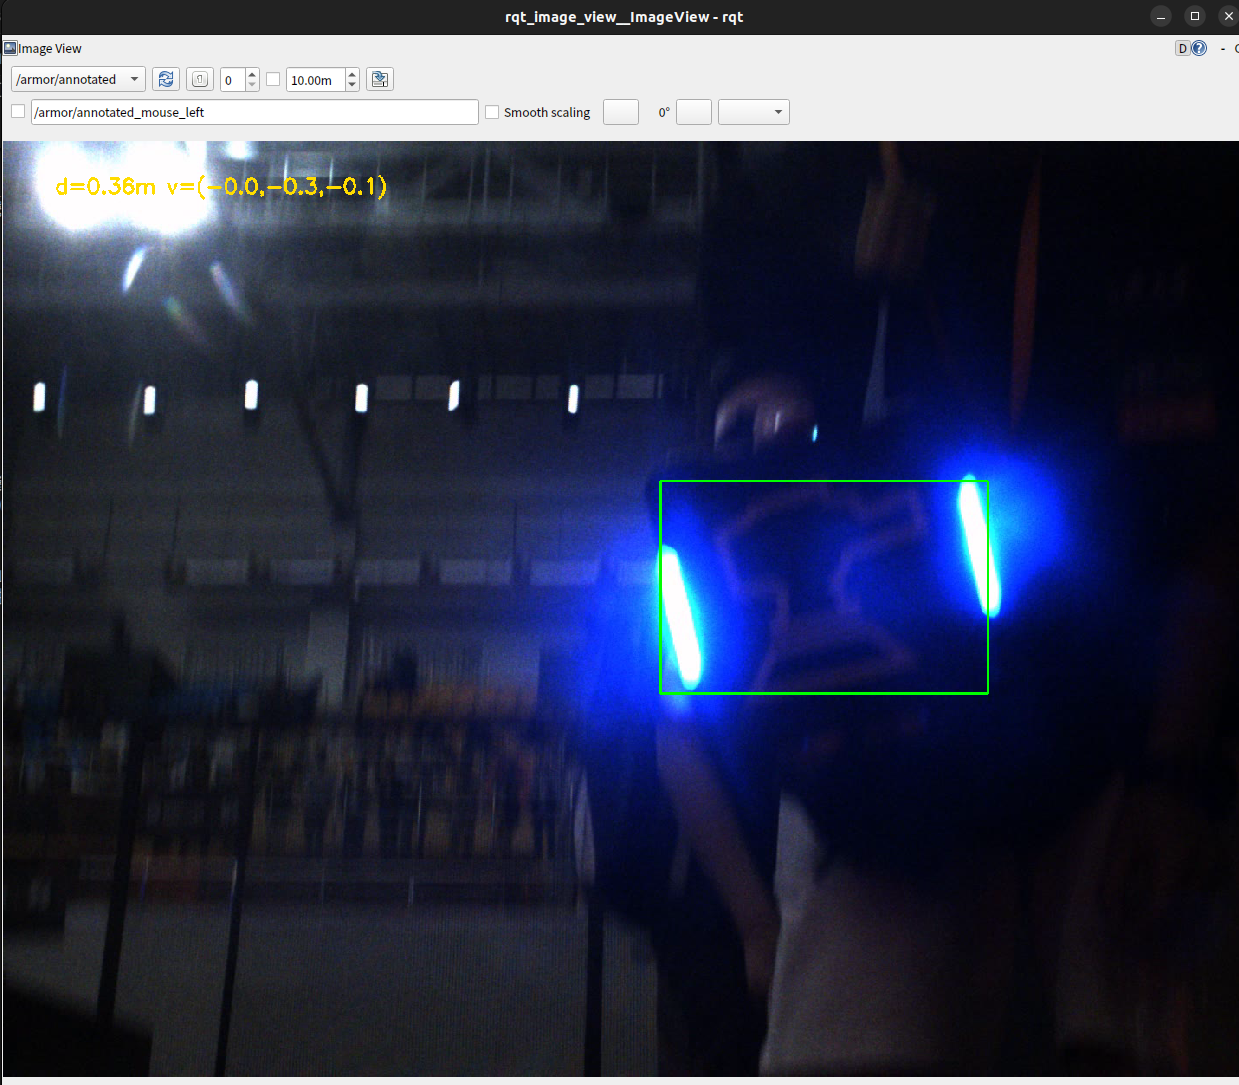
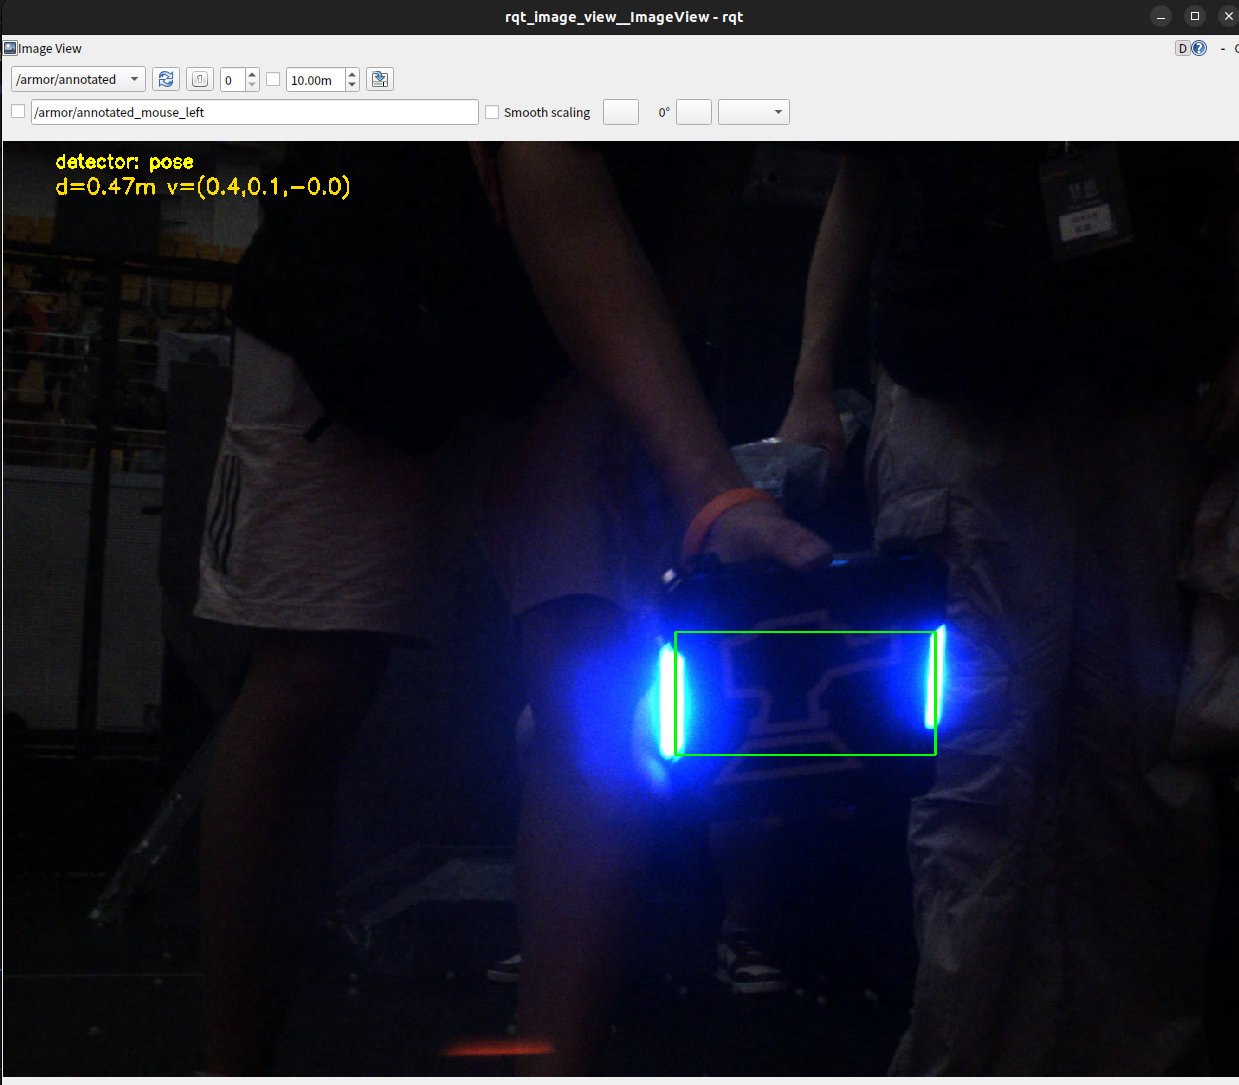
refactor(scripts)+docs: demo.sh 改为 setup.sh(只配置环境+构建, 不启动程序; 自动探测 ORT/MVS 并编好 bbox+pose 两条通路); README v3.4 同步职责分工与两条素材启动命令; 换带 detector:pose 标签的 rqt 截图; notes 标注 ④与标定暂缓; 清理构建产物与测试残留

diff --git a/README.md b/README.md
@@ -23,21 +23,24 @@ cmake -S 02_tracker  -B build/02_tracker  -DCMAKE_BUILD_TYPE=Release && cmake --
 ./build/01_detector/armor_demo data/demo.avi models/armor_yolov8n.onnx 240
 ```
 
-想看完整链路（ROS2 + rqt 可视化 + 终端里的状态数字）：
+想直接看完整链路（ROS2 + rqt 可视化 + 终端里的状态数字）：
 
 ```bash
-source /opt/ros/humble/setup.bash
-colcon build --packages-up-to rm_armor_visualization
-source install/setup.bash
+bash scripts/setup.sh                    # 只做两件事：配置环境 + 构建（不启动任何程序）
 
-bash scripts/demo.sh                                   # 一条命令：环境准备 + 视频源 + bbox + rqt
-# 等价手工版：
-ros2 launch rm_armor_visualization armor_tracker.launch.py use_rqt:=true print_state:=true
+# 启动入口只有 launch；两种检测器跑的都是同一段素材 data/demo.avi
+source install/setup.bash
+ros2 launch rm_armor_visualization armor_tracker.launch.py use_rqt:=true print_state:=true    # ① bbox（默认）
+ros2 launch rm_armor_visualization armor_tracker.launch.py detector:=pose \
+    pose_model_path:=models/third_party/Infantry-v8n/Infantry-v8n-fp16-20260726-D1.8w-B16.onnx \
+    use_rqt:=true print_state:=true                                                           # ② 四关键点
 ```
 
 - **前置**：Ubuntu 22.04 · ROS2 Humble · OpenCV 4.x · C++17（详见「环境与依赖」）。
 - **仓库自带**测试素材 + 两个检测器模型，**不需要额外下载任何东西**；只有两个可选项要自己装：
-  ONNX Runtime（四关键点检测器 `detector:=pose`）与海康 MVS SDK（真机相机 `source:=hik`）。
+  ONNX Runtime（四关键点检测器，`setup.sh` 会自动探测并启用）与海康 MVS SDK（真机相机 `source:=hik`）。
+- **脚本与启动的分工**：`scripts/setup.sh` 只负责"环境 + 构建"，**不启动任何程序**；
+  启动统一走 `ros2 launch`（唯一入口）。
 - 每一步该看到什么，见下面的「30 秒快速验证」——**每条命令都写了「预期效果」**。
 
 ## 考核要求对照
@@ -76,9 +79,7 @@ ros2 launch rm_armor_visualization armor_tracker.launch.py use_rqt:=true print_s
 ```
 
 ```bash
-# 题3：ROS2 全链路 + rqt 可视化窗口（需先按「构建 B」colcon build）
-bash scripts/demo.sh print_state:=true                # 脚本版：环境准备 + rqt + 终端状态数字
-# 等价的手工版（三行）：
+# 题3：ROS2 全链路 + rqt 可视化窗口（前置：已跑过 scripts/setup.sh，它会配好环境并构建）
 source /opt/ros/humble/setup.bash && source install/setup.bash
 ros2 launch rm_armor_visualization armor_tracker.launch.py use_rqt:=true print_state:=true
 # 预期效果：终端出现两种 INFO ——
@@ -90,11 +91,9 @@ ros2 launch rm_armor_visualization armor_tracker.launch.py use_rqt:=true print_s
 ```
 
 ```bash
-# 可选：切到四关键点检测器（需已按「构建 C」启用 ONNX Runtime）
-bash scripts/demo.sh pose                             # 脚本版（模型路径自动填好）
-# 等价的手工版：
+# 可选：同样素材换成四关键点检测器（需构建时启用了 ONNX Runtime，setup.sh 会自动探测）
 POSE_MODEL=models/third_party/Infantry-v8n/Infantry-v8n-fp16-20260726-D1.8w-B16.onnx
-ros2 launch rm_armor_visualization armor_tracker.launch.py detector:=pose pose_model_path:="$POSE_MODEL"
+ros2 launch rm_armor_visualization armor_tracker.launch.py detector:=pose pose_model_path:="$POSE_MODEL" use_rqt:=true
 # 预期效果：终端打印 "检测器: pose（四关键点）…"；
 #   画面左上角第一行变成 detector: pose；且绿框通常会同时套住同一块板的**两根**灯条
 #   （bbox 模式常常只套住其中一根 —— 这正是 2D 点质量差异的直观体现）
@@ -129,7 +128,7 @@ rm27_vision/
 │   ├── src/armor_state_printer.cpp    #   可选：[工具] 把 /armor/state 打到终端（launch 的 print_state:=true）
 │   └── launch/armor_tracker.launch.py #   一键启动
 ├── 04_hik/                    # 海康 MVS SDK 学习 demo（probe/open/grab，独立构建，不参与主构建）
-├── scripts/demo.sh            # 一键启动脚本：环境准备 + 选检测器/图像源 + launch + rqt（见题3）
+├── scripts/setup.sh           # 一键配置环境 + 构建（不启动任何程序；启动统一交给 launch，见题3）
 ├── rm_interfaces/             # 自定义消息接口包（ArmorState.msg）
 ├── docs/
 │   ├── notes.md               # 学习笔记（21 章：原理问答 + 踩坑 + 负结果 + 工作记录）
@@ -146,7 +145,7 @@ rm27_vision/
 |---|---|---|
 | **核心**（运行时必需） | `01_detector/src/armor_detector.cpp`、`armor_pose_detector.cpp`；`02_tracker/src/armor_pnp.cpp`、`armor_ekf.cpp`；`03_visualization/src/armor_tracker_node.cpp`、`image_source.hpp` / `.cpp`；`rm_interfaces/msg/ArmorState.msg`；`models/armor_yolov8n.onnx` | 主节点起不来，或少一条检测器/解算通路 |
 | **工具**（非运行时，但决定"指标能不能复现"） | `02_tracker/src/eval_demo.cpp`、`02_tracker/scripts/compare_eval.py`、`01_detector/scripts/convert_fp16_to_fp32.py` | 主节点照常，但 687 帧 A/B 表无法复现 |
-| **使用体验（可选，删掉不影响任何功能）** | `scripts/demo.sh`、`03_visualization/src/armor_state_printer.cpp` | 少掉"一条命令启动"和"终端里的状态数字" |
+| **使用体验（可选，删掉不影响任何功能）** | `scripts/setup.sh`、`03_visualization/src/armor_state_printer.cpp` | 少掉"一键配置环境+构建"和"终端里的状态数字" |
 | **教学 / 演示**（学习过程留档） | `01_detector/src/demo_main.cpp`；`02_tracker/src/{projection,corner,pnp,tracker,lightbar}_demo.cpp`；`03_visualization/src/armor_video_node.cpp`；`04_hik/src/*.cpp` | 无影响 |
 | **负结果存档** | `02_tracker/src/armor_corner.cpp`、`light_bar_detector.cpp` | 无影响（只被 `eval_demo` 的两个可选模式引用；证据见 notes §15、§21.1） |
 
@@ -526,29 +525,24 @@ ros2 launch rm_armor_visualization armor_tracker.launch.py [参数:=值 ...]
 
 节点自身的参数（`ros2 run` 时用）：`camera_config`、`video_path`、`model_path`、`detector`、`pose_model_path`。
 
-### 一键启动脚本（`scripts/demo.sh`）
+### 配置环境与构建（`scripts/setup.sh`）
 
-`scripts/demo.sh` 把「环境准备 + 选检测器 + 选图像源 + 起 rqt」压成**一条命令**，
-clone 者不用去记环境变量和长参数：
-
-| 命令 | 等价于 |
-|---|---|
-| `bash scripts/demo.sh` | 视频源 + bbox 检测器 + rqt（默认） |
-| `bash scripts/demo.sh pose` | 视频源 + 四关键点检测器 + rqt（模型路径自动填好） |
-| `bash scripts/demo.sh ip 192.168.1.10:8080` | 手机 IP Webcam（自动补 `http://` 与 `/video`） |
-| `bash scripts/demo.sh hik` | 海康相机（读 `data/camera.yaml` 里的序列号） |
-| `bash scripts/demo.sh pose no_rqt` | 只起节点不弹 rqt（`no_rqt` 放哪个位置都行） |
-
-它做的事就是下面手工版的开头几行：`source` ROS2 与 `install/` 环境、设 `RMW_IMPLEMENTATION` 与
-`ROS_LOG_DIR`、检查 `install/` 是否已经构建过（没构建会直接告诉你构建命令）、最后 `exec ros2 launch`。
-**手工版继续保留**（见下一小节）——不想用脚本、或想自己控制每一步时用。
-
-其余 launch 参数可以原样跟在后面**透传**，例如：
+`scripts/setup.sh` **只做两件事：配置环境 + 构建**，不启动任何程序——启动入口统一是 `ros2 launch`（见下一小节）。
 
 ```bash
-bash scripts/demo.sh pose print_state:=true    # 四关键点 + 终端每秒一行状态数字
-bash scripts/demo.sh bbox no_rqt print_state:=true
+bash scripts/setup.sh                              # 环境 + 构建（自动探测 ONNX Runtime / MVS SDK）
+bash scripts/setup.sh --clean                      # 先清掉 build/ install/ log/ 再全量重建
+ORT_DIR=/your/onnxruntime bash scripts/setup.sh    # 手工指定 ORT 位置
 ```
+
+它依次做三件事：
+
+1. `source` ROS2 环境，并设好本工程需要的 `RMW_IMPLEMENTATION` 与 `ROS_LOG_DIR`；
+2. 构建题1、题2（普通 CMake）、题3（`colcon build`）、以及 04_hik 学习 demo；**探测到 ONNX Runtime
+   就把 `detector:=pose` 通路一起编进去**，探测到 MVS SDK 就编上 `source:=hik`；
+3. 打印开关状态（`USE_ONNXRUNTIME` / `USE_HIK_SDK`）与**下一步该跑的命令**（bbox 与 pose 各一条，都是 `data/demo.avi`）。
+
+想自己一步步敲也完全可以——等价的手工命令就是「构建」一节那几条，结果一样。
 
 ### 快速验证
 
@@ -796,3 +790,4 @@ cmake -S 04_hik -B build/04_hik && cmake --build build/04_hik -j
 | v3.1 | 2026-09-11 | 文档：四关键点权重入库（`models/third_party/` + `SOURCE.md`）；「许可说明」改为按内容分层 |
 | **v3.2** | 2026-09-11 | 文档：全量命令实测校验后重写操作部分——新增「30 秒快速验证」「命令行通用约定」「文件清单：核心/工具/教学」；每题补齐「一般用法 → 快速验证 → 产物」；在源文件头加角色标签。修正 5 处与实测不符的说法（hik 的 `LD_LIBRARY_PATH` 非必需、`RM_CORNER_DEBUG` 传任意值即生效、`RMW` 只在跨 RMW 传大图时才是瓶颈、题面"仿真、真实相机"是并列而非二选一、② 的调试图是 `corner_dbg_*`）；补 `source:=hik` 时 `ros2 launch` 返回 0 但节点已死的提醒、海康通路的验证边界、pose 模式运行截图 |
 | **v3.3** | 2026-09-11 | 体验优化：新增「快速开始（clone → 跑起来）」；新增 `scripts/demo.sh` 一键启动脚本（手工版照旧保留）；新增可选节点 `armor_state_printer` + launch 参数 `print_state`（单终端即可看到状态数字）；主节点在画面上叠加当前检测器模式（`detector: bbox/pose`，便于截图自证）；把两份评测汇总加入 `.gitignore` 白名单随仓库提交；每处验证步骤补「预期效果」（含常见异常判据）；`docs/notes.md` 同步重编目录（两级索引 + 状态标签）并新增 §22「与 README 的双向对照」 |
+| **v3.4** | 2026-09-11 | 职责收窄：`scripts/demo.sh`（会启动程序）改为 **`scripts/setup.sh`（只配置环境 + 构建，不启动任何程序）**，启动入口统一收敛到 `ros2 launch`；`setup.sh` 会自动探测 ONNX Runtime / MVS SDK 并把 bbox 与 pose 两条通路都编好，收尾打印两条素材 demo.avi 的启动命令；更换带 `detector: pose` 标签的 rqt 截图 |

diff --git a/docs/notes.md b/docs/notes.md
@@ -1255,13 +1255,13 @@ v2：框内**灯条精定位**（灯条端点 → 更准的四角点 → PnP 更
 **README 同日修订到 v3.0**：按题面重写全文，补"考核要求对照"表、题2 评测基础设施（口径 + 687 帧 A/B 表）、
 两条 v2 负结果、题1 四关键点检测器（输入几何 / 关键点语义 / 后端要求）、04_hik 说明、证据与复现索引、许可说明。
 
-**仍未做（均为加分项，按当前判断的价值排序）**：
+**仍未做（均为加分项，按当前判断的价值排序；2026-09-11 决定：④ 与棋盘格标定暂缓，纳入考核后再做）**：
 
-- **④ PnP 降自由度**：固定 pitch/roll，只解 yaw（1D）—— 现在 6 自由度全解，俯仰/翻滚在"小目标单板"上是纯噪声源；
+- **④ PnP 降自由度（暂缓）**：固定 pitch/roll，只解 yaw（1D）—— 现在 6 自由度全解，俯仰/翻滚在"小目标单板"上是纯噪声源；
 - **R/Q 噪声建模升级**：按 YPD→XYZ 雅可比传播协方差 + 分段白噪声（当前 Q/R 为常值）；
 - **多目标 / 整车 EKF**：当前只跟"面积最大的单板"，两块板交替最大时会跳目标；
 - **装甲数字识别**：区分敌我与选板优先级的前置能力；
-- **棋盘格内参标定**：替换 HFOV≈72° 近似，让距离从"量级可信"升级为"绝对可信"；
+- **棋盘格内参标定（暂缓）**：替换 HFOV≈72° 近似，让距离从"量级可信"升级为"绝对可信"；
 - **仿真接入**（河科仿真器）与可视化升级（Foxglove 3D 位姿）。
 
 ---
@@ -1317,7 +1317,7 @@ v2：框内**灯条精定位**（灯条端点 → 更准的四角点 → PnP 更
 
 | 内容 | README | 本笔记 |
 |---|---|---|
-| `scripts/demo.sh` 一键启动（手工版保留） | ✅ 题3「一键启动脚本」 | ✅ 本节 |
+| `scripts/setup.sh` 一键配置环境 + 构建（**不启动程序**，启动统一交给 launch） | ✅ 题3「配置环境与构建」 | ✅ 本节 |
 | 主节点在画面上叠加 `detector: bbox/pose` | ✅ 题3「检测器选择」 | ✅ 本节 |
 | `armor_state_printer` 节点 + launch 参数 `print_state` | ✅ 题3 参数表与快速验证 | ✅ 本节 |
 | 两份评测汇总（`.txt`）加入 `.gitignore` 白名单入库 | ✅「证据与复现索引」 | ✅ 本节 |
@@ -1341,7 +1341,7 @@ v2：框内**灯条精定位**（灯条端点 → 更准的四角点 → PnP 更
 ### 22.5 仍存在的单边内容（已知、暂不处理）
 
 - **笔记有、README 无**：§4–§13 的概念问答与数学推导——这是本笔记的主要价值，README 不重复。
-- **README 有、笔记无**：使用体验类内容（快速开始、预期效果、FAQ 排错表、`demo.sh` 用法）——
+- **README 有、笔记无**：使用体验类内容（快速开始、预期效果、FAQ 排错表、`setup.sh` 用法）——
   笔记不承担"操作手册"职责。
 - `mAP50≈0.97` 与 `armor_demo 54.5 ms` 两个数字来自训练记录与历史复跑（§3），**本仓库无法从代码复算**；
   README 已注明其出处为本笔记。
